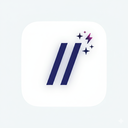
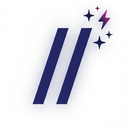
added new branding img and claude code skill

diff --git a/.CLAUDE/skills/chrome-store-assets/scripts/create_promo_tiles.py b/.CLAUDE/skills/chrome-store-assets/scripts/create_promo_tiles.py
@@ -1,0 +1,166 @@
+#!/usr/bin/env python3
+"""
+Create promotional tiles for Chrome Web Store.
+- Small promo tile: 440x280
+- Marquee promo tile: 1400x560
+"""
+
+import sys
+import os
+import argparse
+from PIL import Image, ImageDraw, ImageFont
+
+# Default colors
+DARK_BLUE = (15, 23, 42)
+TEAL = (56, 189, 248)
+WHITE = (255, 255, 255)
+
+
+def get_font(size):
+    """Try to get a nice font, fallback to default."""
+    font_paths = [
+        "/System/Library/Fonts/Helvetica.ttc",
+        "/System/Library/Fonts/SFNSDisplay.ttf",
+        "/Library/Fonts/Arial.ttf",
+        "/System/Library/Fonts/Supplemental/Arial.ttf",
+        "/usr/share/fonts/truetype/dejavu/DejaVuSans.ttf",  # Linux
+        "C:\\Windows\\Fonts\\arial.ttf",  # Windows
+    ]
+    for fp in font_paths:
+        try:
+            return ImageFont.truetype(fp, size)
+        except:
+            continue
+    return ImageFont.load_default()
+
+
+def create_gradient_background(width, height, base_color, factor=0.2):
+    """Create a subtle vertical gradient background."""
+    canvas = Image.new('RGB', (width, height), base_color)
+    draw = ImageDraw.Draw(canvas)
+
+    for y in range(height):
+        gradient_factor = 1 + (y / height) * factor
+        color = tuple(min(255, int(c * gradient_factor)) for c in base_color)
+        draw.line([(0, y), (width, y)], fill=color)
+
+    return canvas
+
+
+def create_small_promo(icon_path, output_path, title, tagline):
+    """Create small promo tile (440x280)."""
+    width, height = 440, 280
+
+    # Create gradient background
+    canvas = create_gradient_background(width, height, DARK_BLUE)
+    draw = ImageDraw.Draw(canvas)
+
+    # Load and resize icon
+    icon = Image.open(icon_path).convert('RGBA')
+    icon_size = 80
+    icon_resized = icon.resize((icon_size, icon_size), Image.LANCZOS)
+
+    # Position icon on left
+    icon_x = 40
+    icon_y = (height - icon_size) // 2
+
+    # Paste icon with transparency
+    canvas.paste(icon_resized, (icon_x, icon_y), icon_resized)
+
+    # Add text
+    title_font = get_font(28)
+    tagline_font = get_font(14)
+
+    text_x = 140
+    draw.text((text_x, 90), title, fill=WHITE, font=title_font)
+    draw.text((text_x, 130), tagline, fill=TEAL, font=tagline_font)
+
+    # Decorative line
+    draw.rectangle([(text_x, 175), (text_x + 150, 177)], fill=TEAL)
+
+    # Save
+    canvas.save(output_path, 'PNG', optimize=True)
+    print(f"✓ Created: {os.path.basename(output_path)} (440x280)")
+
+
+def create_marquee_promo(icon_path, output_path, title, tagline, screenshot_path=None):
+    """Create marquee promo tile (1400x560)."""
+    width, height = 1400, 560
+
+    # Create gradient background
+    canvas = create_gradient_background(width, height, DARK_BLUE)
+    draw = ImageDraw.Draw(canvas)
+
+    # Load and resize icon
+    icon = Image.open(icon_path).convert('RGBA')
+    icon_size = 120
+    icon_resized = icon.resize((icon_size, icon_size), Image.LANCZOS)
+
+    # Position icon
+    icon_x = 100
+    icon_y = (height - icon_size) // 2
+    canvas.paste(icon_resized, (icon_x, icon_y), icon_resized)
+
+    # Add text
+    title_font = get_font(48)
+    tagline_font = get_font(22)
+
+    text_x = 260
+    draw.text((text_x, 200), title, fill=WHITE, font=title_font)
+    draw.text((text_x, 270), tagline, fill=TEAL, font=tagline_font)
+
+    # Decorative line
+    draw.rectangle([(text_x, 320), (text_x + 300, 324)], fill=TEAL)
+
+    # Add screenshot preview if provided
+    if screenshot_path and os.path.exists(screenshot_path):
+        screenshot = Image.open(screenshot_path).convert('RGB')
+        ss_height = 400
+        ss_width = int(screenshot.width * (ss_height / screenshot.height))
+        screenshot_resized = screenshot.resize((ss_width, ss_height), Image.LANCZOS)
+
+        ss_x = width - ss_width - 80
+        ss_y = (height - ss_height) // 2
+
+        # Border
+        border = 3
+        draw.rectangle(
+            [(ss_x - border, ss_y - border), (ss_x + ss_width + border, ss_y + ss_height + border)],
+            fill=TEAL
+        )
+        canvas.paste(screenshot_resized, (ss_x, ss_y))
+
+    # Save
+    canvas.save(output_path, 'PNG', optimize=True)
+    print(f"✓ Created: {os.path.basename(output_path)} (1400x560)")
+
+
+def main():
+    parser = argparse.ArgumentParser(description='Create Chrome Web Store promo tiles')
+    parser.add_argument('icon_path', help='Path to the extension icon')
+    parser.add_argument('output_folder', help='Output folder for promo tiles')
+    parser.add_argument('--title', default='My Extension', help='Extension title')
+    parser.add_argument('--tagline', default='A helpful browser extension', help='Extension tagline')
+    parser.add_argument('--screenshot', help='Optional screenshot for marquee tile')
+
+    args = parser.parse_args()
+
+    if not os.path.exists(args.icon_path):
+        print(f"Error: Icon file '{args.icon_path}' not found.")
+        sys.exit(1)
+
+    os.makedirs(args.output_folder, exist_ok=True)
+
+    # Create small promo tile
+    small_path = os.path.join(args.output_folder, 'promo_small_440x280.png')
+    create_small_promo(args.icon_path, small_path, args.title, args.tagline)
+
+    # Create marquee promo tile
+    marquee_path = os.path.join(args.output_folder, 'promo_marquee_1400x560.png')
+    create_marquee_promo(args.icon_path, marquee_path, args.title, args.tagline, args.screenshot)
+
+    print(f"\nPromo tiles saved to {args.output_folder}")
+
+
+if __name__ == "__main__":
+    main()

diff --git a/.CLAUDE/skills/chrome-store-assets/scripts/resize_screenshots.py b/.CLAUDE/skills/chrome-store-assets/scripts/resize_screenshots.py
@@ -1,0 +1,105 @@
+#!/usr/bin/env python3
+"""
+Resize screenshots to Chrome Web Store dimensions (1280x800).
+Maintains aspect ratio and adds white padding if needed.
+"""
+
+import sys
+import os
+from PIL import Image
+
+TARGET_WIDTH = 1280
+TARGET_HEIGHT = 800
+BG_COLOR = (255, 255, 255)  # White background for padding
+
+
+def resize_screenshot(input_path, output_path):
+    """Resize a single screenshot to 1280x800 with padding."""
+    img = Image.open(input_path)
+    original_size = img.size
+
+    # Convert to RGB (remove alpha channel if present)
+    if img.mode in ('RGBA', 'LA', 'P'):
+        background = Image.new('RGB', img.size, BG_COLOR)
+        if img.mode == 'P':
+            img = img.convert('RGBA')
+        if img.mode in ('RGBA', 'LA'):
+            background.paste(img, mask=img.split()[-1])
+        else:
+            background.paste(img)
+        img = background
+    elif img.mode != 'RGB':
+        img = img.convert('RGB')
+
+    # Calculate scaling to fit within target while maintaining aspect ratio
+    width_ratio = TARGET_WIDTH / img.width
+    height_ratio = TARGET_HEIGHT / img.height
+    scale_ratio = min(width_ratio, height_ratio)
+
+    # New dimensions after scaling
+    new_width = int(img.width * scale_ratio)
+    new_height = int(img.height * scale_ratio)
+
+    # Resize image with high quality
+    img_resized = img.resize((new_width, new_height), Image.LANCZOS)
+
+    # Create target canvas with background color
+    canvas = Image.new('RGB', (TARGET_WIDTH, TARGET_HEIGHT), BG_COLOR)
+
+    # Calculate position to center the image
+    x_offset = (TARGET_WIDTH - new_width) // 2
+    y_offset = (TARGET_HEIGHT - new_height) // 2
+
+    # Paste resized image onto canvas
+    canvas.paste(img_resized, (x_offset, y_offset))
+
+    # Save
+    canvas.save(output_path, 'PNG', optimize=True)
+
+    return original_size, (new_width, new_height)
+
+
+def main():
+    if len(sys.argv) < 2:
+        print("Usage: python resize_screenshots.py <input_folder> [output_folder]")
+        print("  If output_folder not specified, files are modified in place.")
+        sys.exit(1)
+
+    input_folder = sys.argv[1]
+    output_folder = sys.argv[2] if len(sys.argv) > 2 else input_folder
+
+    if not os.path.exists(input_folder):
+        print(f"Error: Input folder '{input_folder}' does not exist.")
+        sys.exit(1)
+
+    os.makedirs(output_folder, exist_ok=True)
+
+    # Process all image files
+    extensions = ('.png', '.jpg', '.jpeg', '.webp', '.bmp')
+    processed = 0
+
+    for filename in sorted(os.listdir(input_folder)):
+        if filename.lower().endswith(extensions):
+            input_path = os.path.join(input_folder, filename)
+
+            # Change extension to .png for output
+            output_filename = os.path.splitext(filename)[0] + '.png'
+            output_path = os.path.join(output_folder, output_filename)
+
+            try:
+                original, scaled = resize_screenshot(input_path, output_path)
+                print(f"✓ {filename}: {original[0]}x{original[1]} → {TARGET_WIDTH}x{TARGET_HEIGHT} (scaled to {scaled[0]}x{scaled[1]})")
+                processed += 1
+            except Exception as e:
+                print(f"✗ {filename}: Error - {e}")
+
+    if processed == 0:
+        print("No image files found to process.")
+    else:
+        print(f"\nProcessed {processed} screenshot(s) to {output_folder}")
+        if processed > 5:
+            print("⚠ Warning: Chrome Web Store allows maximum 5 screenshots.")
+
+
+if __name__ == "__main__":
+    main()

diff --git a/.CLAUDE/skills/chrome-store-assets/SKILL.md b/.CLAUDE/skills/chrome-store-assets/SKILL.md
@@ -1,0 +1,77 @@
+---
+name: chrome-store-assets
+description: Prepare images for Chrome Web Store - resize screenshots to 1280x800, create promo tiles (440x280, 1400x560), and generate icon sizes (16, 32, 48, 128)
+---
+
+# Chrome Web Store Asset Preparation
+
+This skill helps prepare images for Chrome Web Store submission, ensuring they meet all requirements.
+
+## Chrome Web Store Image Requirements
+
+### Screenshots
+- Dimensions: **1280x800** or 640x400
+- Format: JPEG or 24-bit PNG (no alpha)
+- Maximum: 5 screenshots
+- At least 1 required
+
+### Small Promo Tile
+- Dimensions: **440x280**
+- Format: JPEG or 24-bit PNG (no alpha)
+
+### Marquee Promo Tile
+- Dimensions: **1400x560**
+- Format: JPEG or 24-bit PNG (no alpha)
+
+### Extension Icons
+- Sizes: **16x16, 32x32, 48x48, 128x128**
+- Format: PNG (transparency allowed)
+
+## Available Commands
+
+### 1. Resize Screenshots
+Resize images to 1280x800 while maintaining aspect ratio. Adds padding (white background) if needed.
+
+```bash
+python3 ./scripts/resize_screenshots.py <input_folder> [output_folder]
+```
+
+### 2. Create Promo Tiles
+Generate small (440x280) and marquee (1400x560) promo tiles with branding.
+
+```bash
+python3 ./scripts/create_promo_tiles.py <icon_path> <output_folder> [--title "App Name"] [--tagline "Your tagline"]
+```
+
+### 3. Create Icon Sizes
+Generate all required icon sizes from a source image.
+
+```bash
+python3 ./scripts/create_icons.py <source_image> <output_folder>
+```
+
+## Usage Examples
+
+### Prepare all assets for Chrome Web Store:
+
+1. **Screenshots**: Place raw screenshots in a folder, then resize:
+   ```bash
+   python3 .claude/skills/chrome-store-assets/scripts/resize_screenshots.py ./raw-screenshots ./store-screenshots
+   ```
+
+2. **Promo tiles**: Create promotional images:
+   ```bash
+   python3 .claude/skills/chrome-store-assets/scripts/create_promo_tiles.py ./icons/icon128.png ./promo --title "My Extension" --tagline "Does amazing things"
+   ```
+
+3. **Icons**: Generate all icon sizes:
+   ```bash
+   python3 .claude/skills/chrome-store-assets/scripts/create_icons.py ./icons/source.png ./icons
+   ```
+
+## Output Verification
+
+All scripts will:
+- Verify output dimensions match requirements
+- Ensure no alpha channel for JPEG/required PNGs
+- Report success/failure for each file processed
